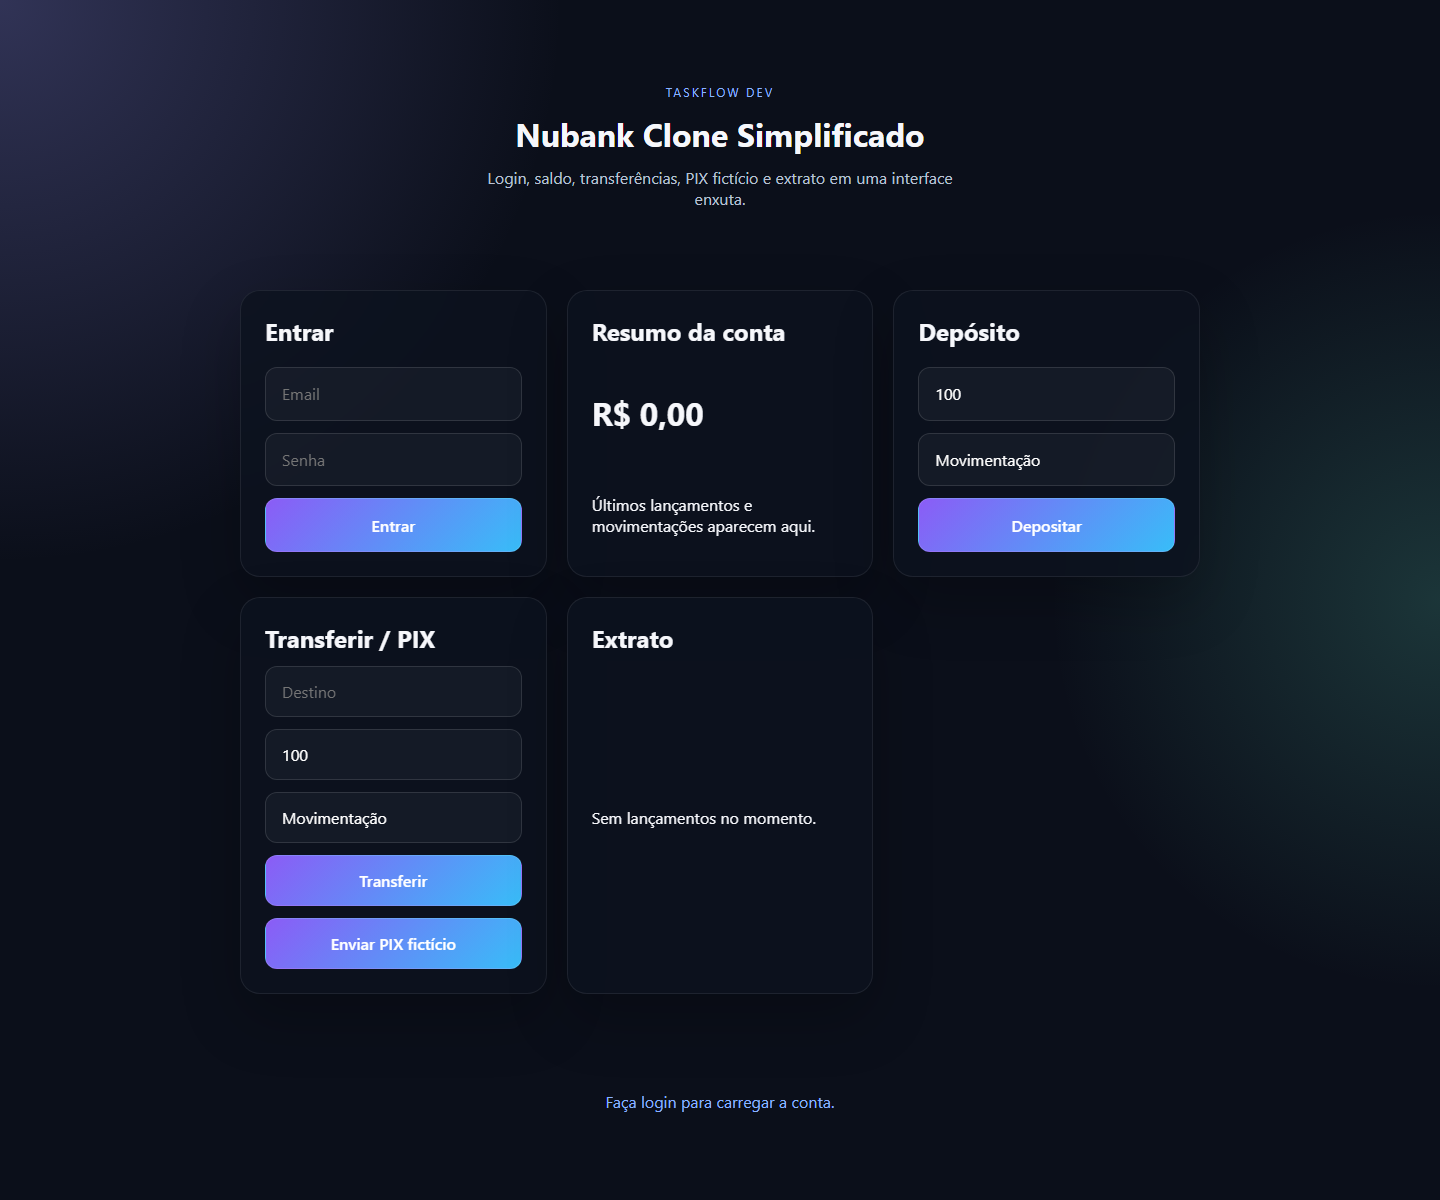
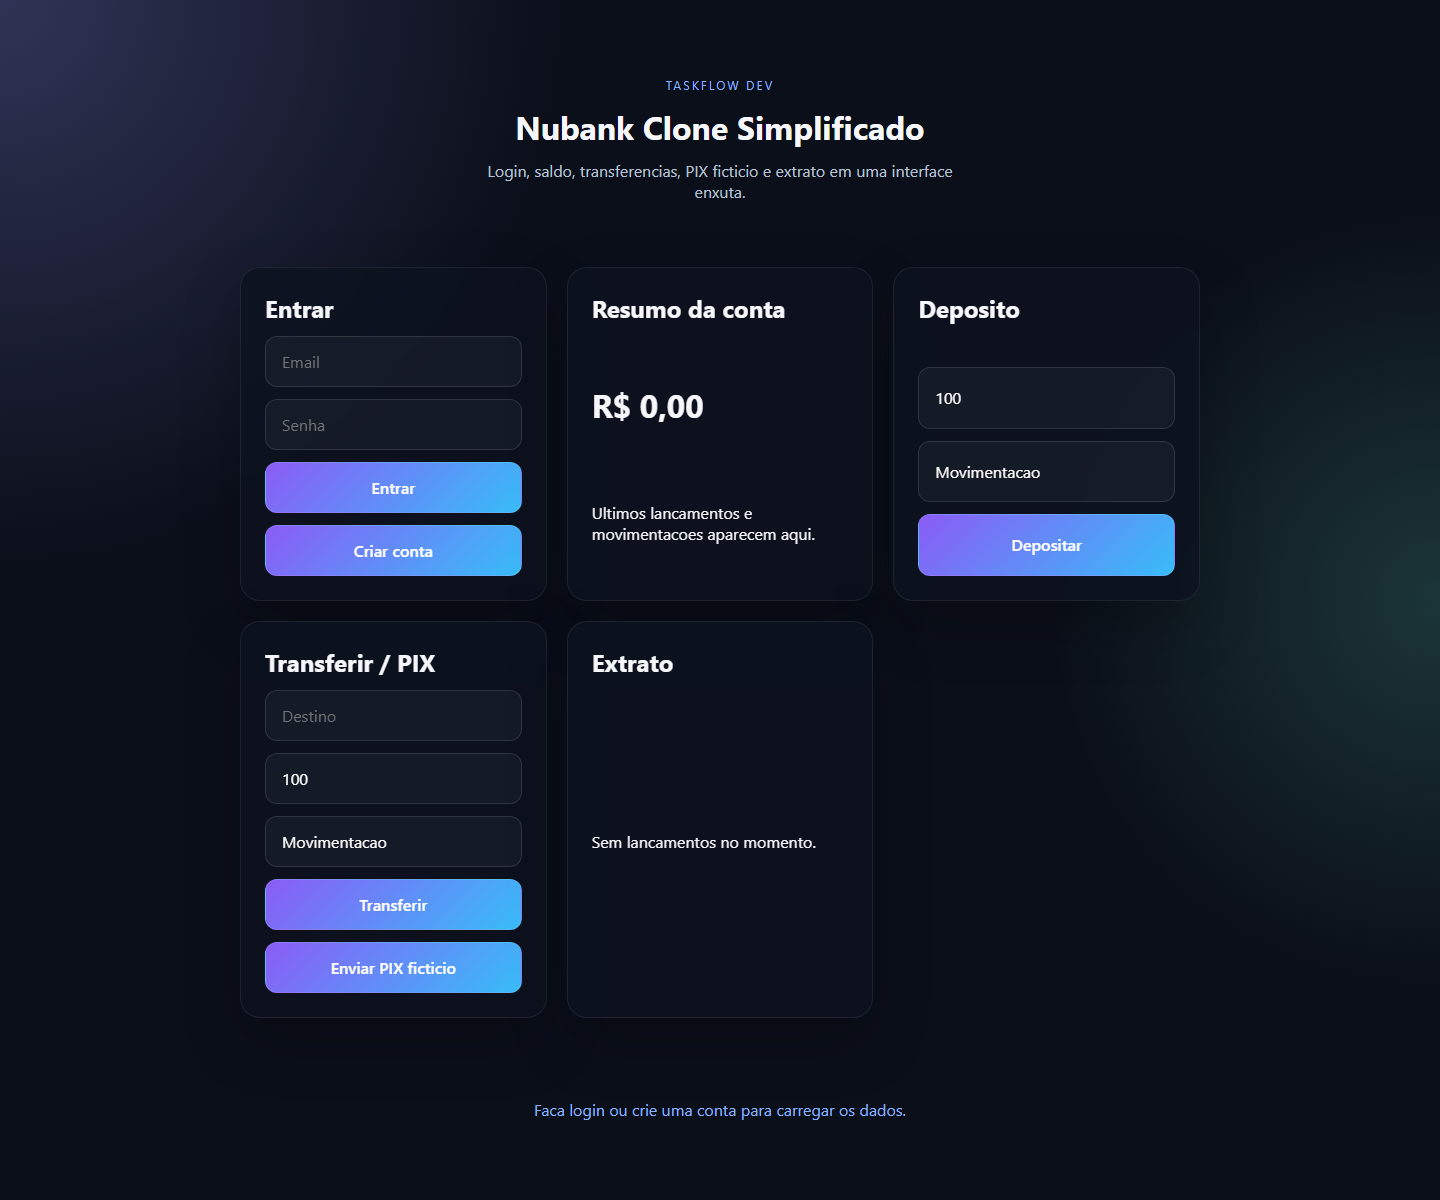
feat: harden banking flows and UI

diff --git a/frontend/src/main.tsx b/frontend/src/main.tsx
@@ -4,32 +4,49 @@ import { Panel } from './components/Panel';
 import { api } from './api/client';
 import './styles.css';
 
+type StatementItem = {
+  id: string;
+  accountEmail: string;
+  type: string;
+  amount: number;
+  description: string;
+  createdAt: string;
+};
+
 function App() {
   const [token, setToken] = React.useState('');
   const [email, setEmail] = React.useState('');
   const [password, setPassword] = React.useState('');
   const [balance, setBalance] = React.useState('R$ 0,00');
-  const [statement, setStatement] = React.useState<Array<{ id: string; accountEmail: string; type: string; amount: number; description: string; createdAt: string }>>([]);
+  const [statement, setStatement] = React.useState<StatementItem[]>([]);
   const [toEmail, setToEmail] = React.useState('');
   const [amount, setAmount] = React.useState('100');
-  const [description, setDescription] = React.useState('Movimentação');
-  const [message, setMessage] = React.useState('Faça login para carregar a conta.');
+  const [description, setDescription] = React.useState('Movimentacao');
+  const [message, setMessage] = React.useState('Faca login ou crie uma conta para carregar os dados.');
+  const [loading, setLoading] = React.useState(false);
 
-  async function handleLogin(event: React.FormEvent<HTMLFormElement>) {
-    event.preventDefault();
-    try {
-      const result = await api.login(email, password);
-      setToken(result.token);
-      const [dash, items] = await Promise.all([
-        api.dashboard(result.token),
-        api.statements(result.token),
-      ]);
-      setBalance(new Intl.NumberFormat('pt-BR', { style: 'currency', currency: 'BRL' }).format(dash.balance));
-      setStatement(items);
-      setMessage('Conta carregada com sucesso.');
-    } catch (error) {
-      setMessage(error instanceof Error ? error.message : 'Erro ao autenticar');
+  function formatCurrency(value: number) {
+    return new Intl.NumberFormat('pt-BR', { style: 'currency', currency: 'BRL' }).format(value);
+  }
+
+  function validateAuthForm() {
+    if (!email.includes('@') || password.length < 8) {
+      setMessage('Informe um email valido e senha com pelo menos 8 caracteres.');
+      return false;
     }
+    return true;
+  }
+
+  function validateMovementForm(requireDestination = false) {
+    if (Number(amount) <= 0) {
+      setMessage('Informe um valor maior que zero.');
+      return false;
+    }
+    if (requireDestination && !toEmail.includes('@')) {
+      setMessage('Informe um email de destino valido.');
+      return false;
+    }
+    return true;
   }
 
   async function refreshAccount(currentToken = token) {
@@ -37,29 +54,54 @@ function App() {
       api.dashboard(currentToken),
       api.statements(currentToken),
     ]);
-    setBalance(new Intl.NumberFormat('pt-BR', { style: 'currency', currency: 'BRL' }).format(dash.balance));
+    setBalance(formatCurrency(dash.balance));
     setStatement(items);
+  }
+
+  async function authenticate(mode: 'login' | 'register') {
+    if (!validateAuthForm()) return;
+    setLoading(true);
+    try {
+      const result = mode === 'login'
+        ? await api.login(email, password)
+        : await api.register(email, password);
+      setToken(result.token);
+      await refreshAccount(result.token);
+      setMessage(mode === 'login' ? 'Conta carregada com sucesso.' : 'Conta criada e carregada com sucesso.');
+    } catch (error) {
+      setMessage(error instanceof Error ? error.message : 'Erro ao autenticar.');
+    } finally {
+      setLoading(false);
+    }
+  }
+
+  async function handleLogin(event: React.FormEvent<HTMLFormElement>) {
+    event.preventDefault();
+    await authenticate('login');
   }
 
   async function handleDeposit(event: React.FormEvent<HTMLFormElement>) {
     event.preventDefault();
+    if (!validateMovementForm()) return;
     await api.deposit(token, Number(amount), description);
     await refreshAccount();
-    setMessage('Depósito registrado.');
+    setMessage('Deposito registrado.');
   }
 
   async function handleTransfer(event: React.FormEvent<HTMLFormElement>) {
     event.preventDefault();
+    if (!validateMovementForm(true)) return;
     await api.transfer(token, toEmail, Number(amount), description);
     await refreshAccount();
-    setMessage('Transferência enviada.');
+    setMessage('Transferencia enviada.');
   }
 
   async function handlePix(event: React.FormEvent<HTMLFormElement>) {
     event.preventDefault();
+    if (!validateMovementForm(true)) return;
     await api.pix(token, toEmail, Number(amount), description);
     await refreshAccount();
-    setMessage('PIX fictício concluído.');
+    setMessage('PIX ficticio concluido.');
   }
 
   return (
@@ -68,7 +110,7 @@ function App() {
         <p className="eyebrow">TaskFlow Dev</p>
         <h1>Nubank Clone Simplificado</h1>
         <p className="subtitle">
-          Login, saldo, transferências, PIX fictício e extrato em uma interface enxuta.
+          Login, saldo, transferencias, PIX ficticio e extrato em uma interface enxuta.
         </p>
       </section>
 
@@ -78,21 +120,22 @@ function App() {
           <form className="stack" onSubmit={handleLogin}>
             <input value={email} onChange={(event) => setEmail(event.target.value)} placeholder="Email" />
             <input value={password} onChange={(event) => setPassword(event.target.value)} placeholder="Senha" type="password" />
-            <button type="submit">Entrar</button>
+            <button type="submit" disabled={loading}>{loading ? 'Carregando...' : 'Entrar'}</button>
+            <button type="button" disabled={loading} onClick={() => authenticate('register')}>Criar conta</button>
           </form>
         </Panel>
 
         <Panel>
           <h2>Resumo da conta</h2>
           <p className="balance">{balance}</p>
-          <p>Últimos lançamentos e movimentações aparecem aqui.</p>
+          <p>Ultimos lancamentos e movimentacoes aparecem aqui.</p>
         </Panel>
 
         <Panel>
-          <h2>Depósito</h2>
+          <h2>Deposito</h2>
           <form className="stack" onSubmit={handleDeposit}>
             <input value={amount} onChange={(event) => setAmount(event.target.value)} placeholder="Valor" />
-            <input value={description} onChange={(event) => setDescription(event.target.value)} placeholder="Descrição" />
+            <input value={description} onChange={(event) => setDescription(event.target.value)} placeholder="Descricao" />
             <button type="submit" disabled={!token}>Depositar</button>
           </form>
         </Panel>
@@ -102,11 +145,11 @@ function App() {
           <form className="stack" onSubmit={handleTransfer}>
             <input value={toEmail} onChange={(event) => setToEmail(event.target.value)} placeholder="Destino" />
             <input value={amount} onChange={(event) => setAmount(event.target.value)} placeholder="Valor" />
-            <input value={description} onChange={(event) => setDescription(event.target.value)} placeholder="Descrição" />
+            <input value={description} onChange={(event) => setDescription(event.target.value)} placeholder="Descricao" />
             <button type="submit" disabled={!token}>Transferir</button>
           </form>
           <form className="stack" onSubmit={handlePix}>
-            <button type="submit" disabled={!token}>Enviar PIX fictício</button>
+            <button type="submit" disabled={!token}>Enviar PIX ficticio</button>
           </form>
         </Panel>
 
@@ -114,12 +157,12 @@ function App() {
           <h2>Extrato</h2>
           <div className="statement-list">
             {statement.length === 0 ? (
-              <p>Sem lançamentos no momento.</p>
+              <p>Sem lancamentos no momento.</p>
             ) : (
               statement.map((item) => (
                 <article key={item.id} className="statement-item">
                   <strong>{item.type}</strong>
-                  <span>{new Intl.NumberFormat('pt-BR', { style: 'currency', currency: 'BRL' }).format(item.amount)}</span>
+                  <span>{formatCurrency(item.amount)}</span>
                   <small>{item.description}</small>
                 </article>
               ))

diff --git a/backend/src/test/java/com/taskflowdev/nubankclone/account/AccountServiceTests.java b/backend/src/test/java/com/taskflowdev/nubankclone/account/AccountServiceTests.java
@@ -1,13 +1,17 @@
 package com.taskflowdev.nubankclone.account;
 
+import com.taskflowdev.nubankclone.cache.AccountCacheService;
 import com.taskflowdev.nubankclone.statement.StatementRepository;
+import com.taskflowdev.nubankclone.transaction.TransactionType;
 import com.taskflowdev.nubankclone.user.UserAccount;
 import com.taskflowdev.nubankclone.user.UserRepository;
+import org.springframework.beans.factory.ObjectProvider;
+import org.springframework.data.redis.core.StringRedisTemplate;
+import org.junit.jupiter.api.BeforeEach;
 import org.junit.jupiter.api.Test;
-import org.springframework.beans.factory.annotation.Autowired;
-import org.springframework.boot.test.context.SpringBootTest;
-import org.springframework.boot.test.mock.mockito.MockBean;
-import org.springframework.test.context.ActiveProfiles;
+import org.junit.jupiter.api.extension.ExtendWith;
+import org.mockito.Mock;
+import org.mockito.junit.jupiter.MockitoExtension;
 
 import java.math.BigDecimal;
 import java.util.Optional;
@@ -16,33 +20,55 @@ import static org.junit.jupiter.api.Assertions.assertEquals;
 import static org.junit.jupiter.api.Assertions.assertThrows;
 import static org.mockito.Mockito.when;
 
-@SpringBootTest
-@ActiveProfiles("test")
+@ExtendWith(MockitoExtension.class)
 class AccountServiceTests {
+    @Mock
+    private AccountRepository accountRepository;
+    @Mock
+    private UserRepository userRepository;
+    @Mock
+    private StatementRepository statementRepository;
+    private FakeAccountCacheService accountCacheService;
 
-    @Autowired
     private AccountService accountService;
 
-    @MockBean
-    private AccountRepository accountRepository;
-
-    @MockBean
-    private UserRepository userRepository;
-
-    @MockBean
-    private StatementRepository statementRepository;
+    @BeforeEach
+    void setUp() {
+        accountCacheService = new FakeAccountCacheService();
+        accountService = new AccountService(accountRepository, userRepository, statementRepository, accountCacheService);
+    }
 
     @Test
     void depositUpdatesBalance() {
         var user = new UserAccount("[email redacted]", "encoded");
         var account = new Account(user);
-        when(userRepository.findByEmail("[email redacted]")).thenReturn(Optional.of(user));
         when(accountRepository.findByOwner_Email("[email redacted]")).thenReturn(Optional.of(account));
         when(accountRepository.save(account)).thenReturn(account);
 
         var result = accountService.deposit("[email redacted]", BigDecimal.valueOf(100), "deposit");
 
         assertEquals(0, BigDecimal.valueOf(100).compareTo(result.getBalance()));
+    }
+
+    @Test
+    void getBalanceUsesCachedValueWhenAvailable() {
+        accountCacheService.cachedBalance = BigDecimal.valueOf(250);
+
+        BigDecimal balance = accountService.getBalance("[email redacted]");
+
+        assertEquals(0, BigDecimal.valueOf(250).compareTo(balance));
+    }
+
+    @Test
+    void transferRejectsSameOriginAndDestination() {
+        assertThrows(IllegalArgumentException.class, () ->
+                accountService.transfer("[email redacted]", "[email redacted]", BigDecimal.ONE, "transfer", TransactionType.TRANSFER));
+    }
+
+    @Test
+    void depositRejectsInvalidAmount() {
+        assertThrows(IllegalArgumentException.class, () ->
+                accountService.deposit("[email redacted]", BigDecimal.ZERO, "deposit"));
     }
 
     @Test
@@ -55,6 +81,39 @@ class AccountServiceTests {
         when(accountRepository.findByOwner_Email("[email redacted]")).thenReturn(Optional.of(targetAccount));
 
         assertThrows(IllegalArgumentException.class, () ->
-                accountService.transfer("[email redacted]", "[email redacted]", BigDecimal.ONE, "transfer", com.taskflowdev.nubankclone.transaction.TransactionType.TRANSFER));
+                accountService.transfer("[email redacted]", "[email redacted]", BigDecimal.ONE, "transfer", TransactionType.TRANSFER));
+    }
+
+    private static class FakeAccountCacheService extends AccountCacheService {
+        private BigDecimal cachedBalance;
+
+        FakeAccountCacheService() {
+            super(new ObjectProvider<>() {
+                @Override
+                public StringRedisTemplate getObject(Object... args) {
+                    return null;
+                }
+
+                @Override
+                public StringRedisTemplate getIfAvailable() {
+                    return null;
+                }
+
+                @Override
+                public StringRedisTemplate getIfUnique() {
+                    return null;
+                }
+
+                @Override
+                public StringRedisTemplate getObject() {
+                    return null;
+                }
+            });
+        }
+
+        @Override
+        public Optional<BigDecimal> getCachedBalance(String email) {
+            return Optional.ofNullable(cachedBalance);
+        }
     }
 }

diff --git a/backend/src/main/java/com/taskflowdev/nubankclone/account/AccountService.java b/backend/src/main/java/com/taskflowdev/nubankclone/account/AccountService.java
@@ -11,6 +11,7 @@ import org.springframework.transaction.annotation.Transactional;
 
 import java.math.BigDecimal;
 import java.time.Instant;
+import java.util.Objects;
 
 @Service
 public class AccountService {
@@ -36,12 +37,22 @@ public class AccountService {
 
     @Transactional(readOnly = true)
     public Account getByEmail(String email) {
-        accountCacheService.getCachedBalance(email).ifPresent(balance -> {});
         return accountRepository.findByOwner_Email(email).orElseThrow();
+    }
+
+    @Transactional(readOnly = true)
+    public BigDecimal getBalance(String email) {
+        return accountCacheService.getCachedBalance(email)
+                .orElseGet(() -> {
+                    Account account = getByEmail(email);
+                    accountCacheService.cacheSummary(email, account);
+                    return account.getBalance();
+                });
     }
 
     @Transactional
     public Account deposit(String email, BigDecimal amount, String description) {
+        validatePositiveAmount(amount);
         Account account = getByEmail(email);
         account.deposit(amount);
         statementRepository.save(new StatementEntry(account, TransactionType.DEPOSIT, amount, description, Instant.now()));
@@ -52,6 +63,10 @@ public class AccountService {
 
     @Transactional
     public void transfer(String fromEmail, String toEmail, BigDecimal amount, String description, TransactionType type) {
+        validatePositiveAmount(amount);
+        if (Objects.equals(fromEmail, toEmail)) {
+            throw new IllegalArgumentException("Destination account must be different from origin account");
+        }
         Account from = getByEmail(fromEmail);
         Account to = getByEmail(toEmail);
         if (from.getBalance().compareTo(amount) < 0) {
@@ -65,5 +80,11 @@ public class AccountService {
         accountRepository.save(to);
         accountCacheService.evict(fromEmail);
         accountCacheService.evict(toEmail);
+    }
+
+    private void validatePositiveAmount(BigDecimal amount) {
+        if (amount == null || amount.compareTo(BigDecimal.ZERO) <= 0) {
+            throw new IllegalArgumentException("Amount must be greater than zero");
+        }
     }
 }

diff --git a/backend/src/main/java/com/taskflowdev/nubankclone/dashboard/DashboardService.java b/backend/src/main/java/com/taskflowdev/nubankclone/dashboard/DashboardService.java
@@ -1,6 +1,5 @@
 package com.taskflowdev.nubankclone.dashboard;
 
-import com.taskflowdev.nubankclone.account.Account;
 import com.taskflowdev.nubankclone.account.AccountService;
 import org.springframework.stereotype.Service;
 
@@ -15,7 +14,7 @@ public class DashboardService {
     }
 
     public BigDecimal getBalance(String email) {
-        Account account = accountService.createAccount(email);
-        return account.getBalance();
+        accountService.createAccount(email);
+        return accountService.getBalance(email);
     }
 }